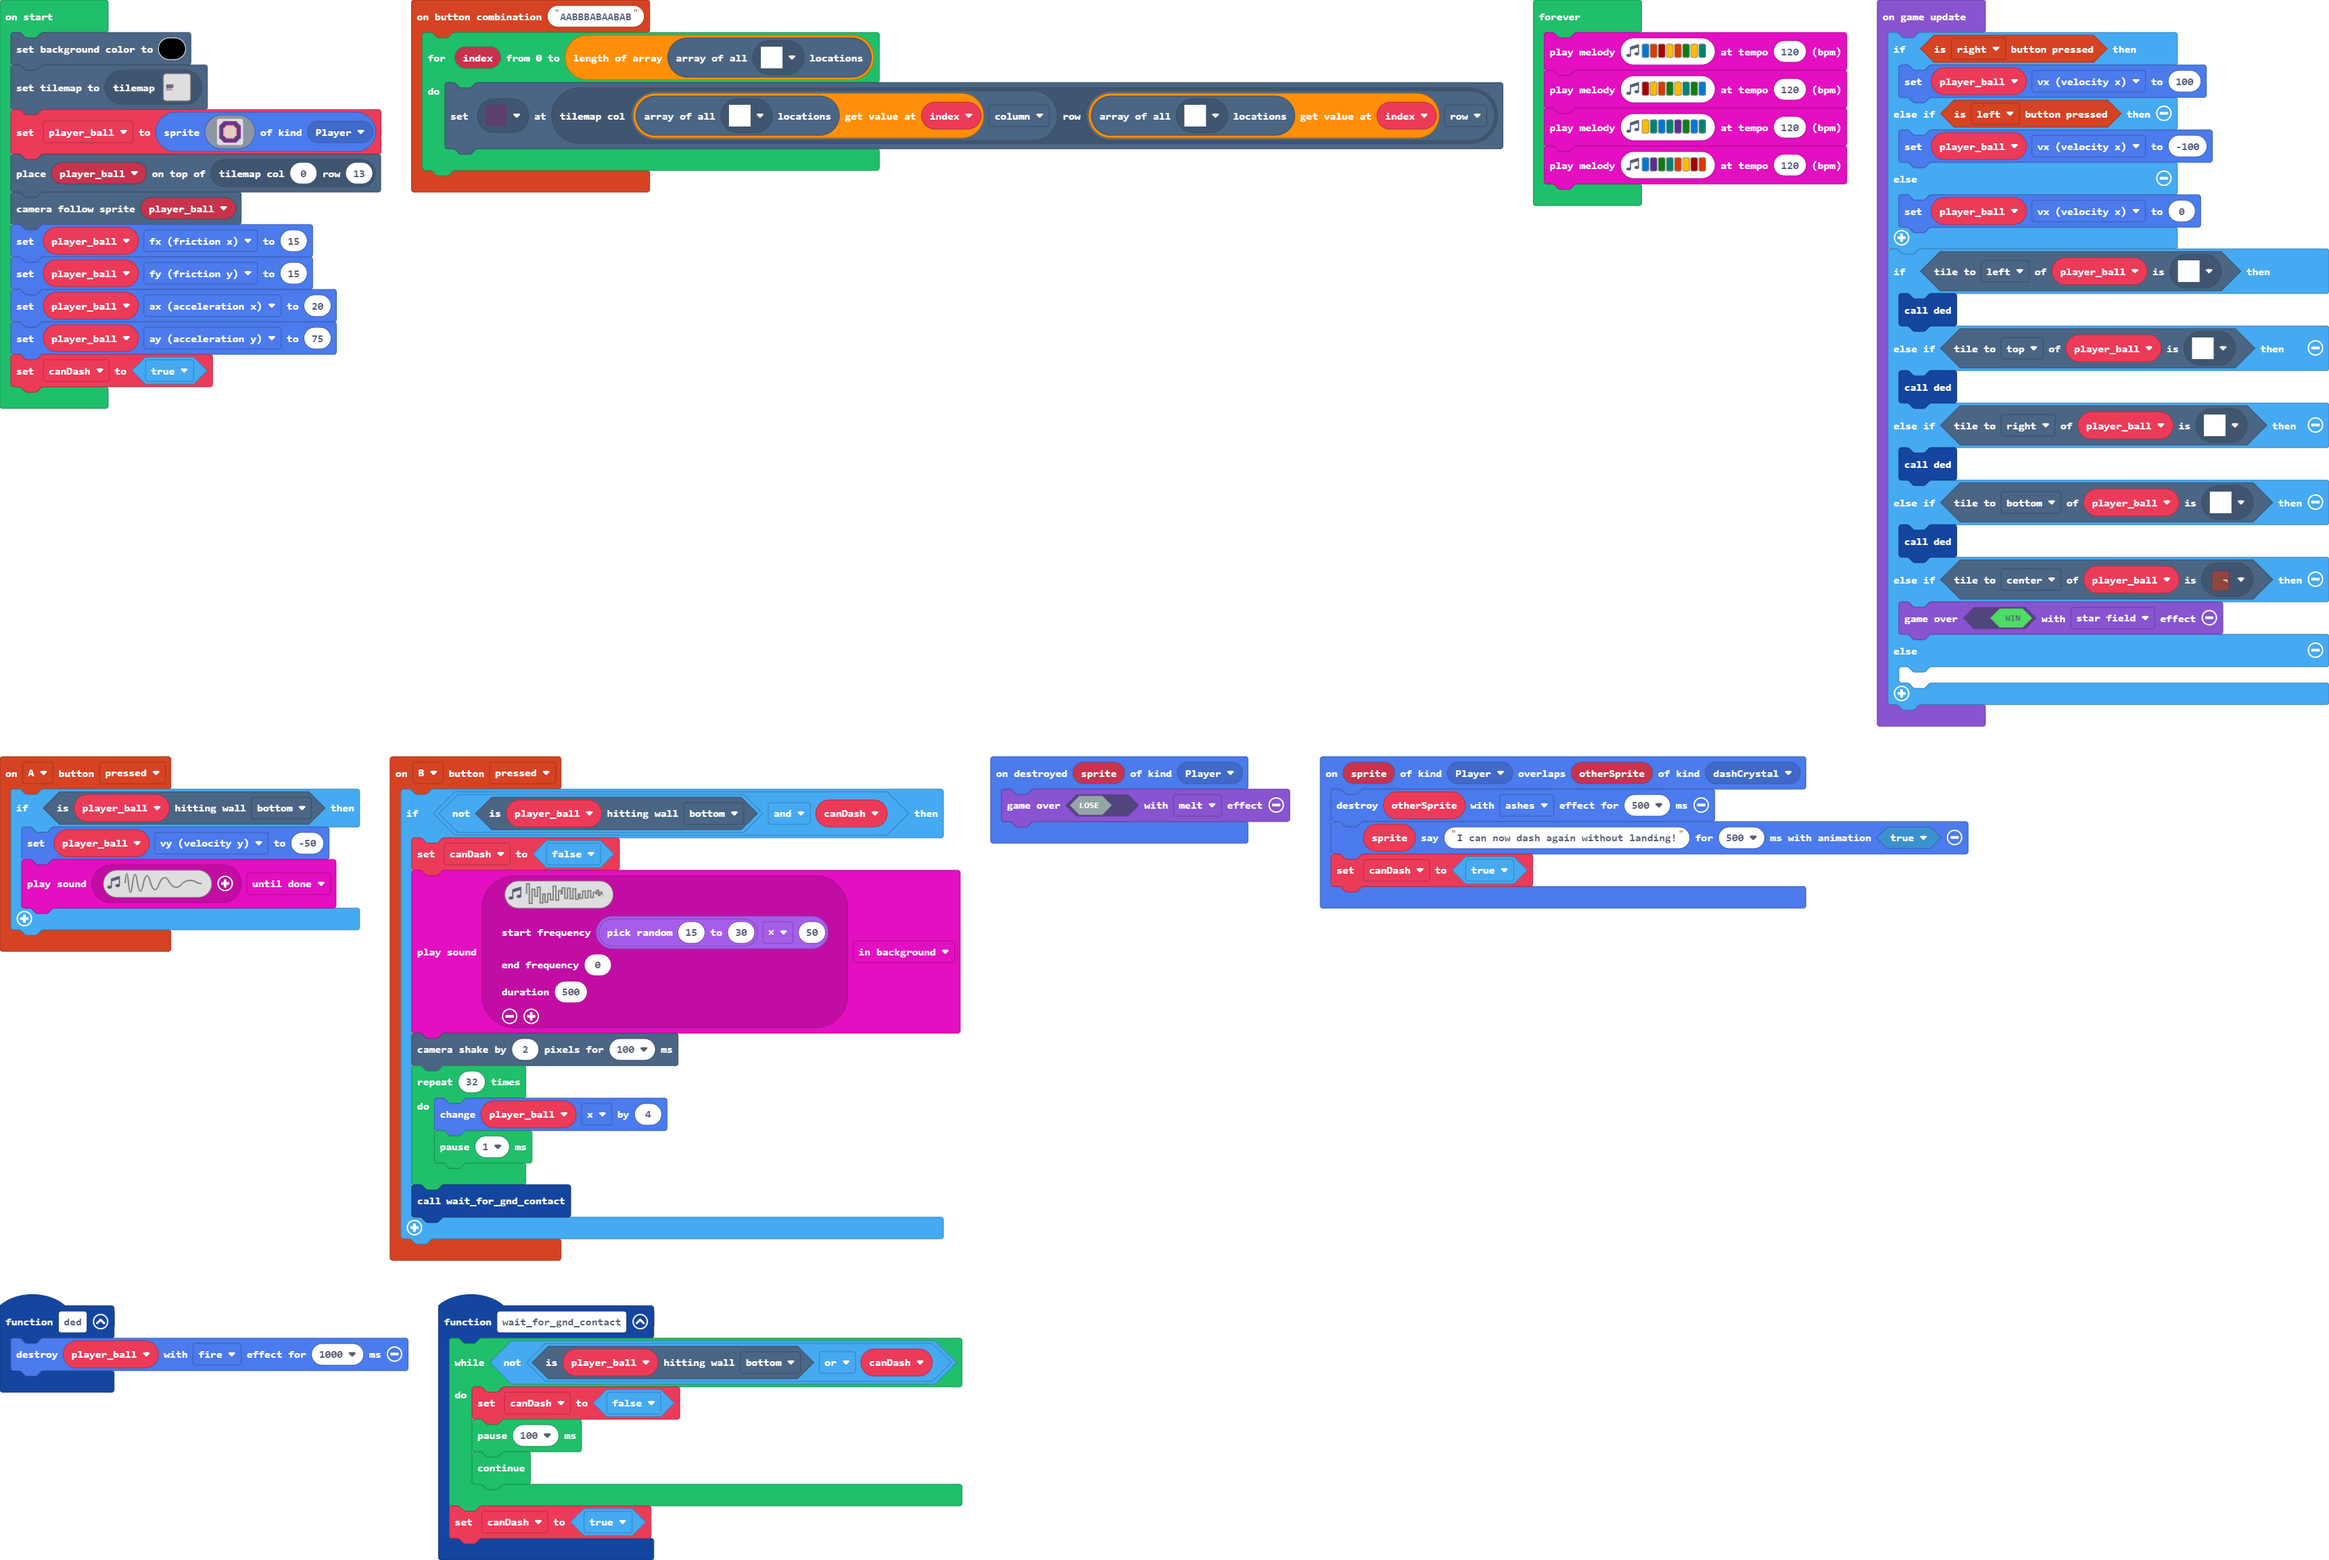
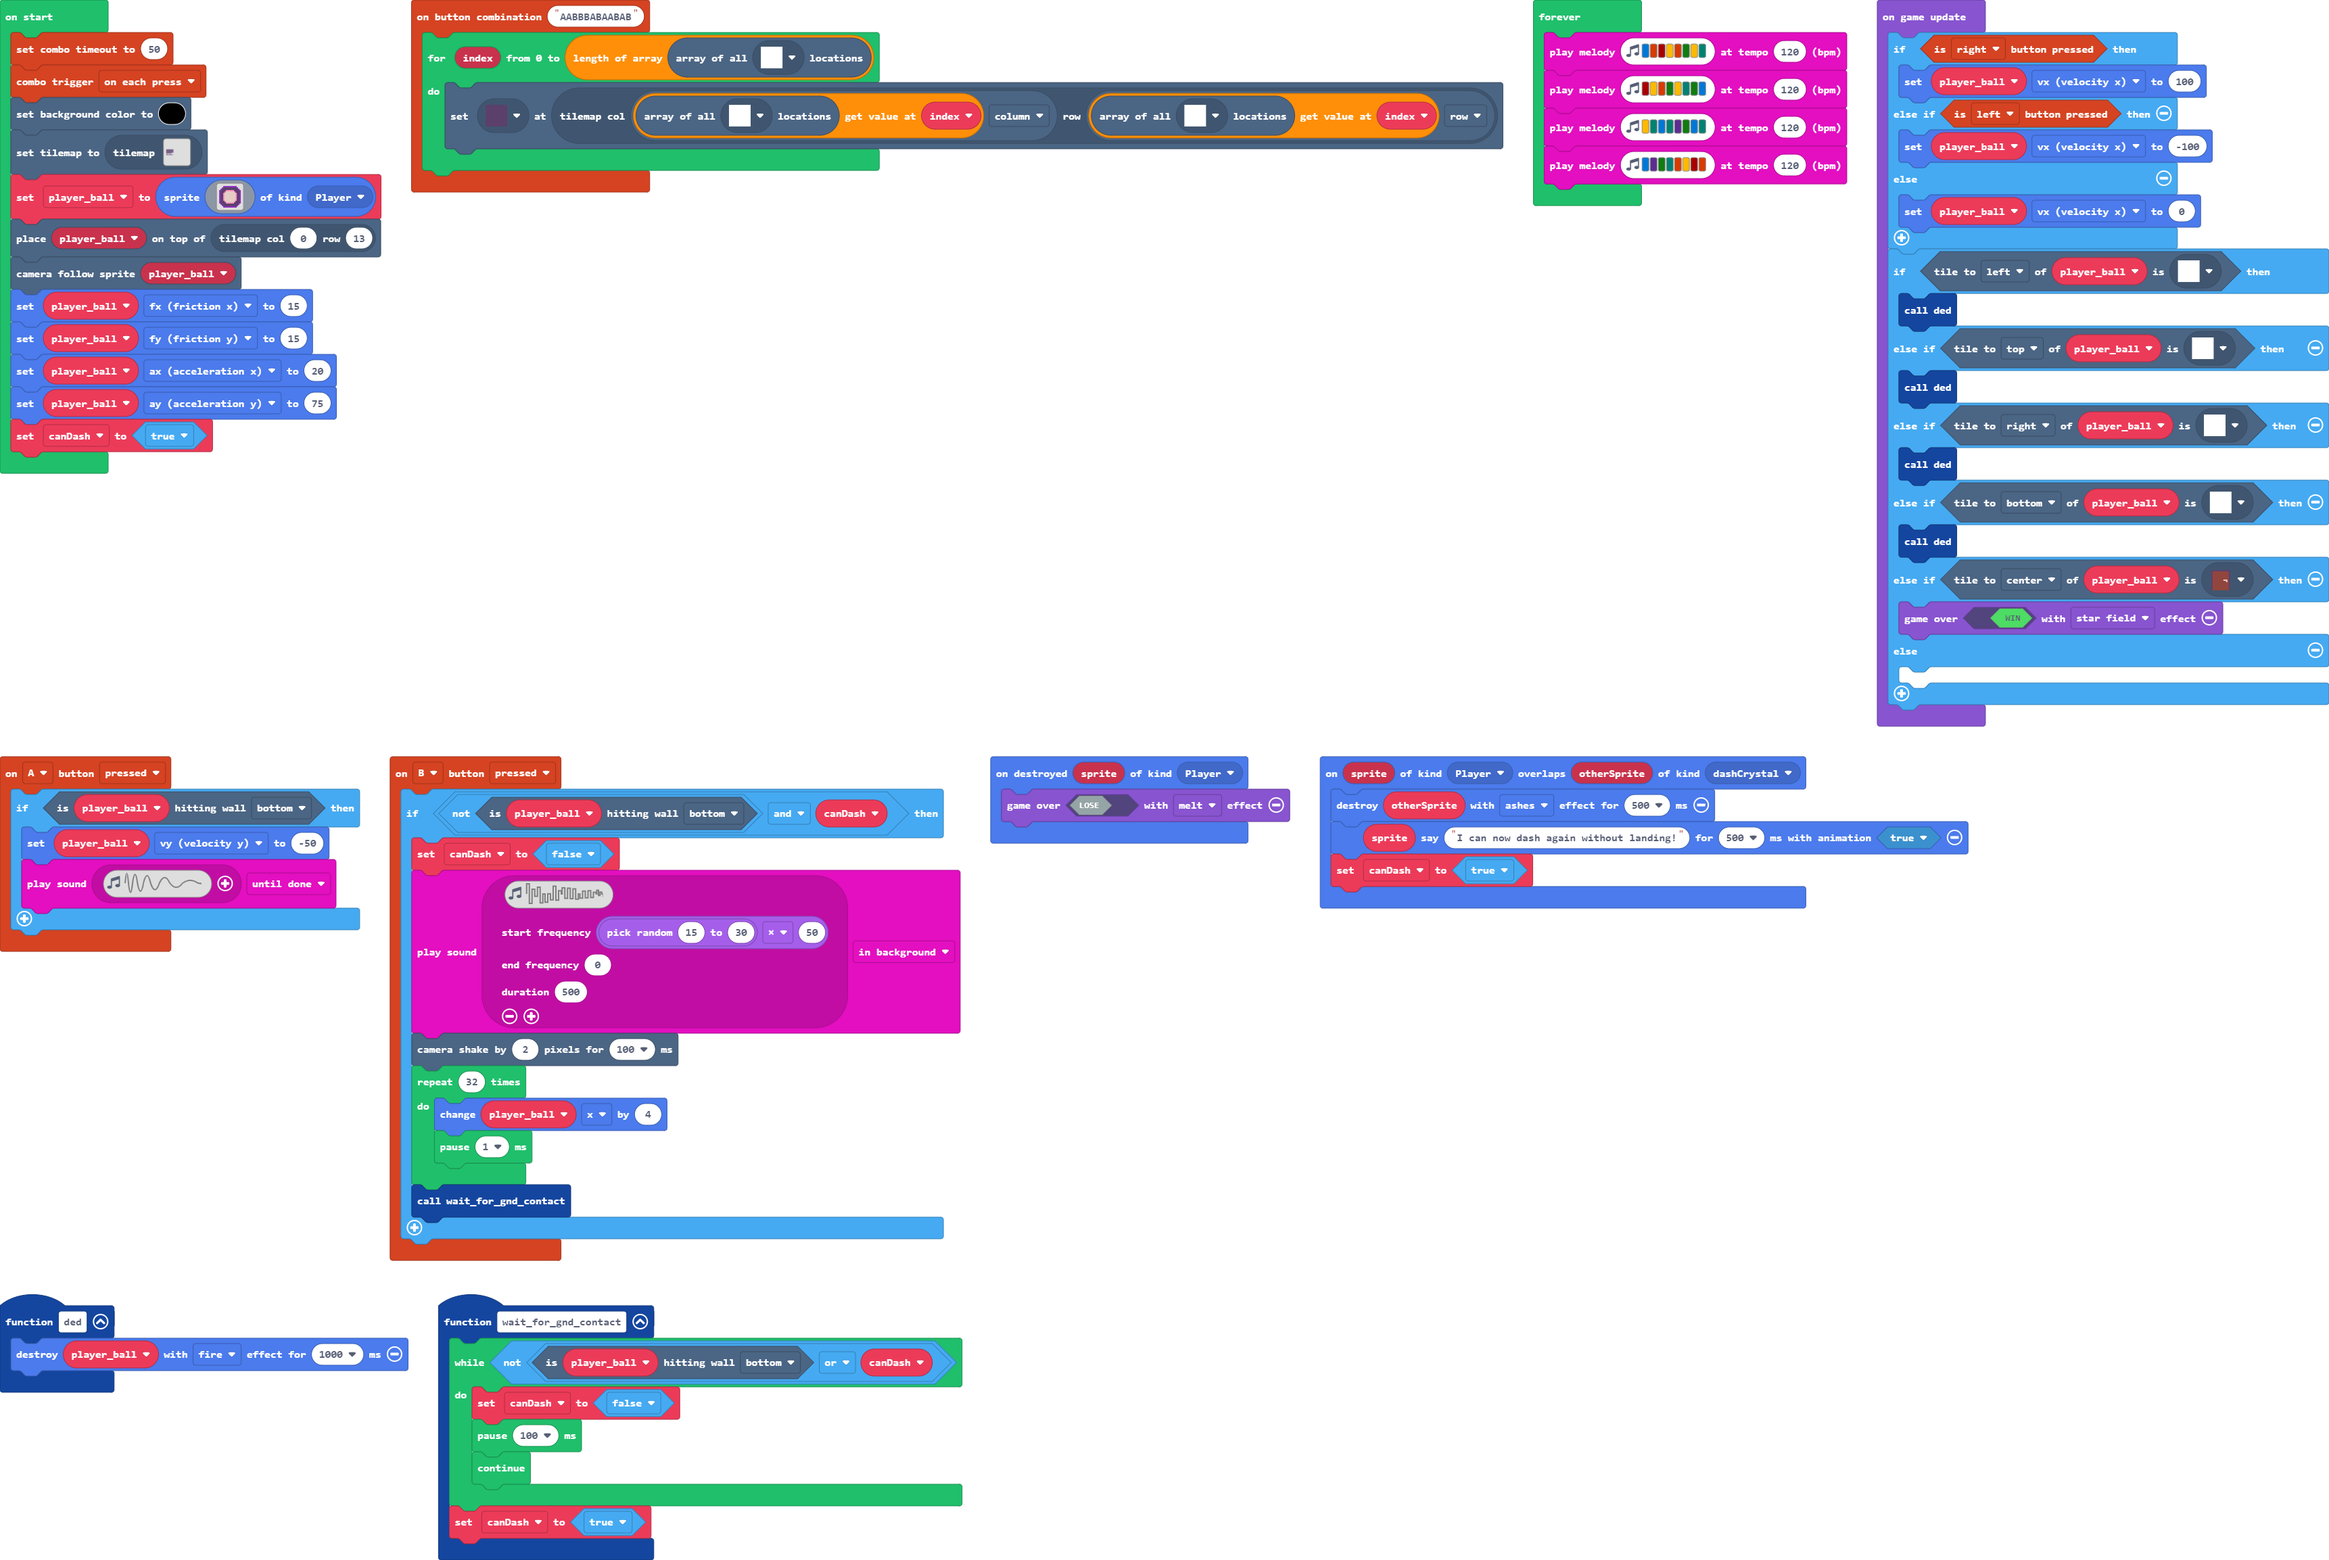
Added combo timeout and trigger blocks

Changed region(s): [[0.0, 0.0, 0.1864, 0.3121]]

diff --git a/main.ts b/main.ts
@@ -54,6 +54,8 @@ sprites.onDestroyed(SpriteKind.Player, function (sprite) {
 })
 let canDash = false
 let player_ball: Sprite = null
+controller.combos.setTimeout(50)
+controller.combos.setTriggerType(TriggerType.Continuous)
 scene.setBackgroundColor(15)
 tiles.setCurrentTilemap(tilemap`level0`)
 player_ball = sprites.create(assets.image`character`, SpriteKind.Player)
